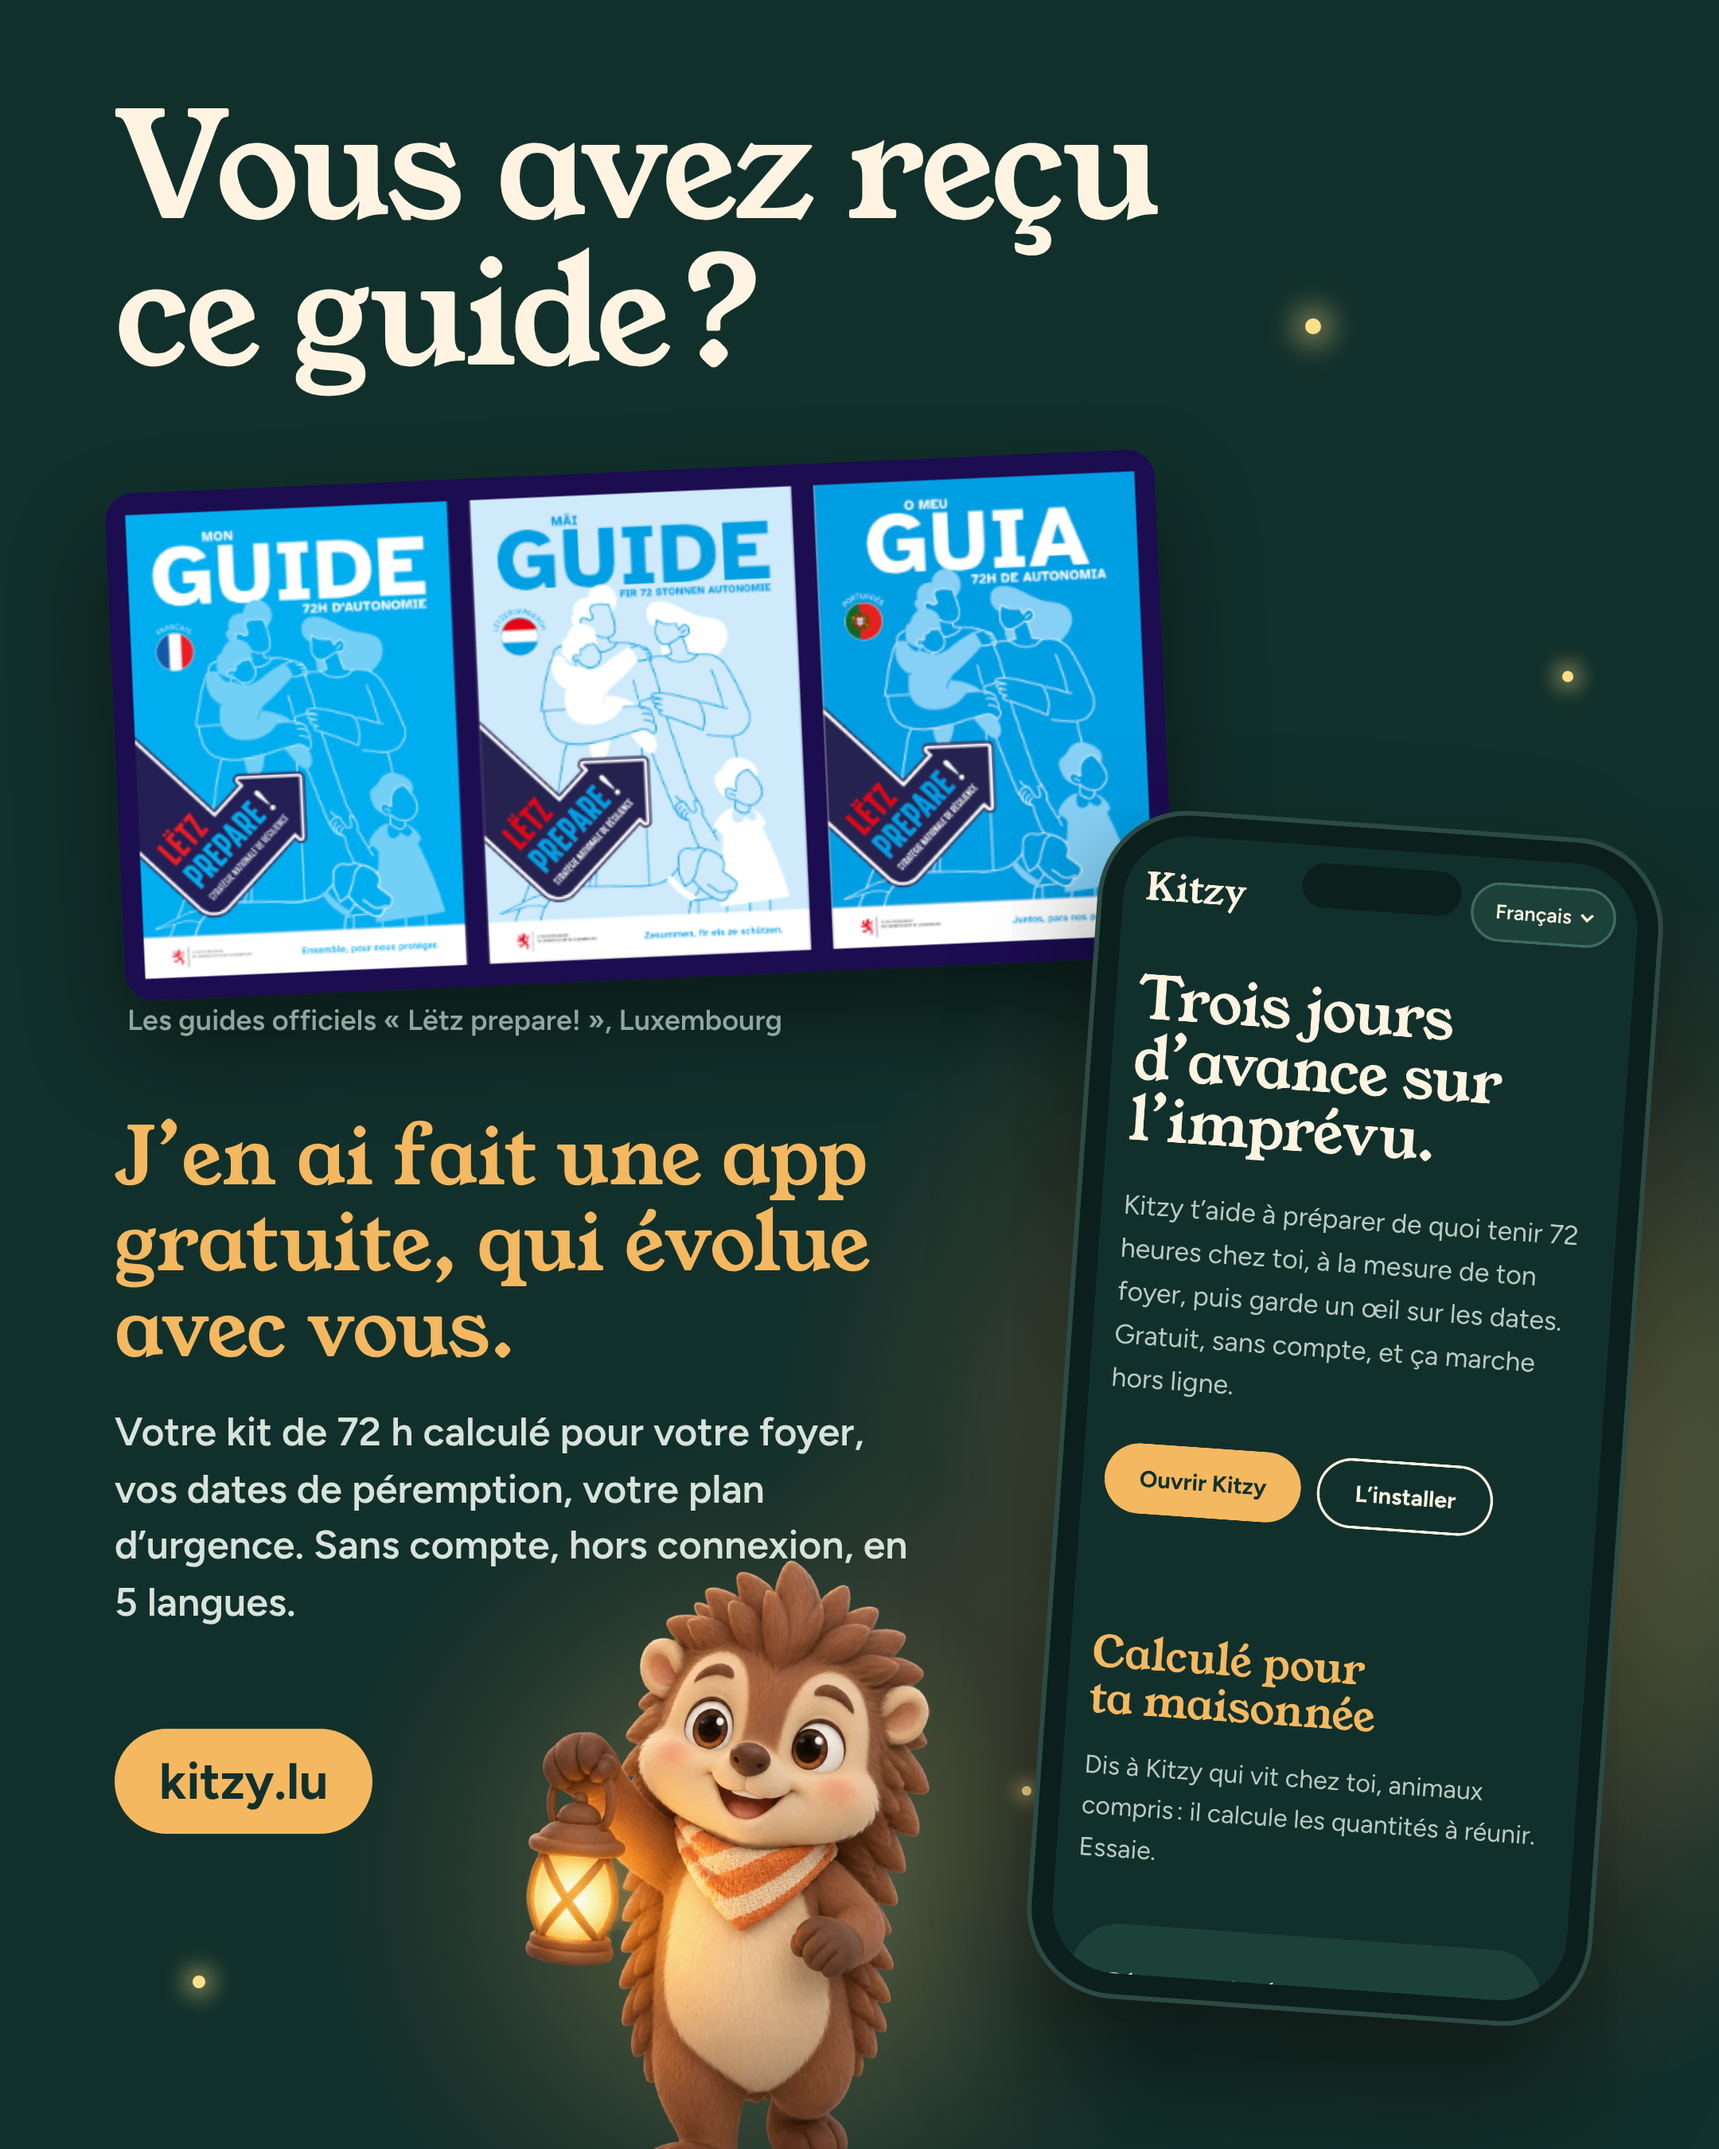
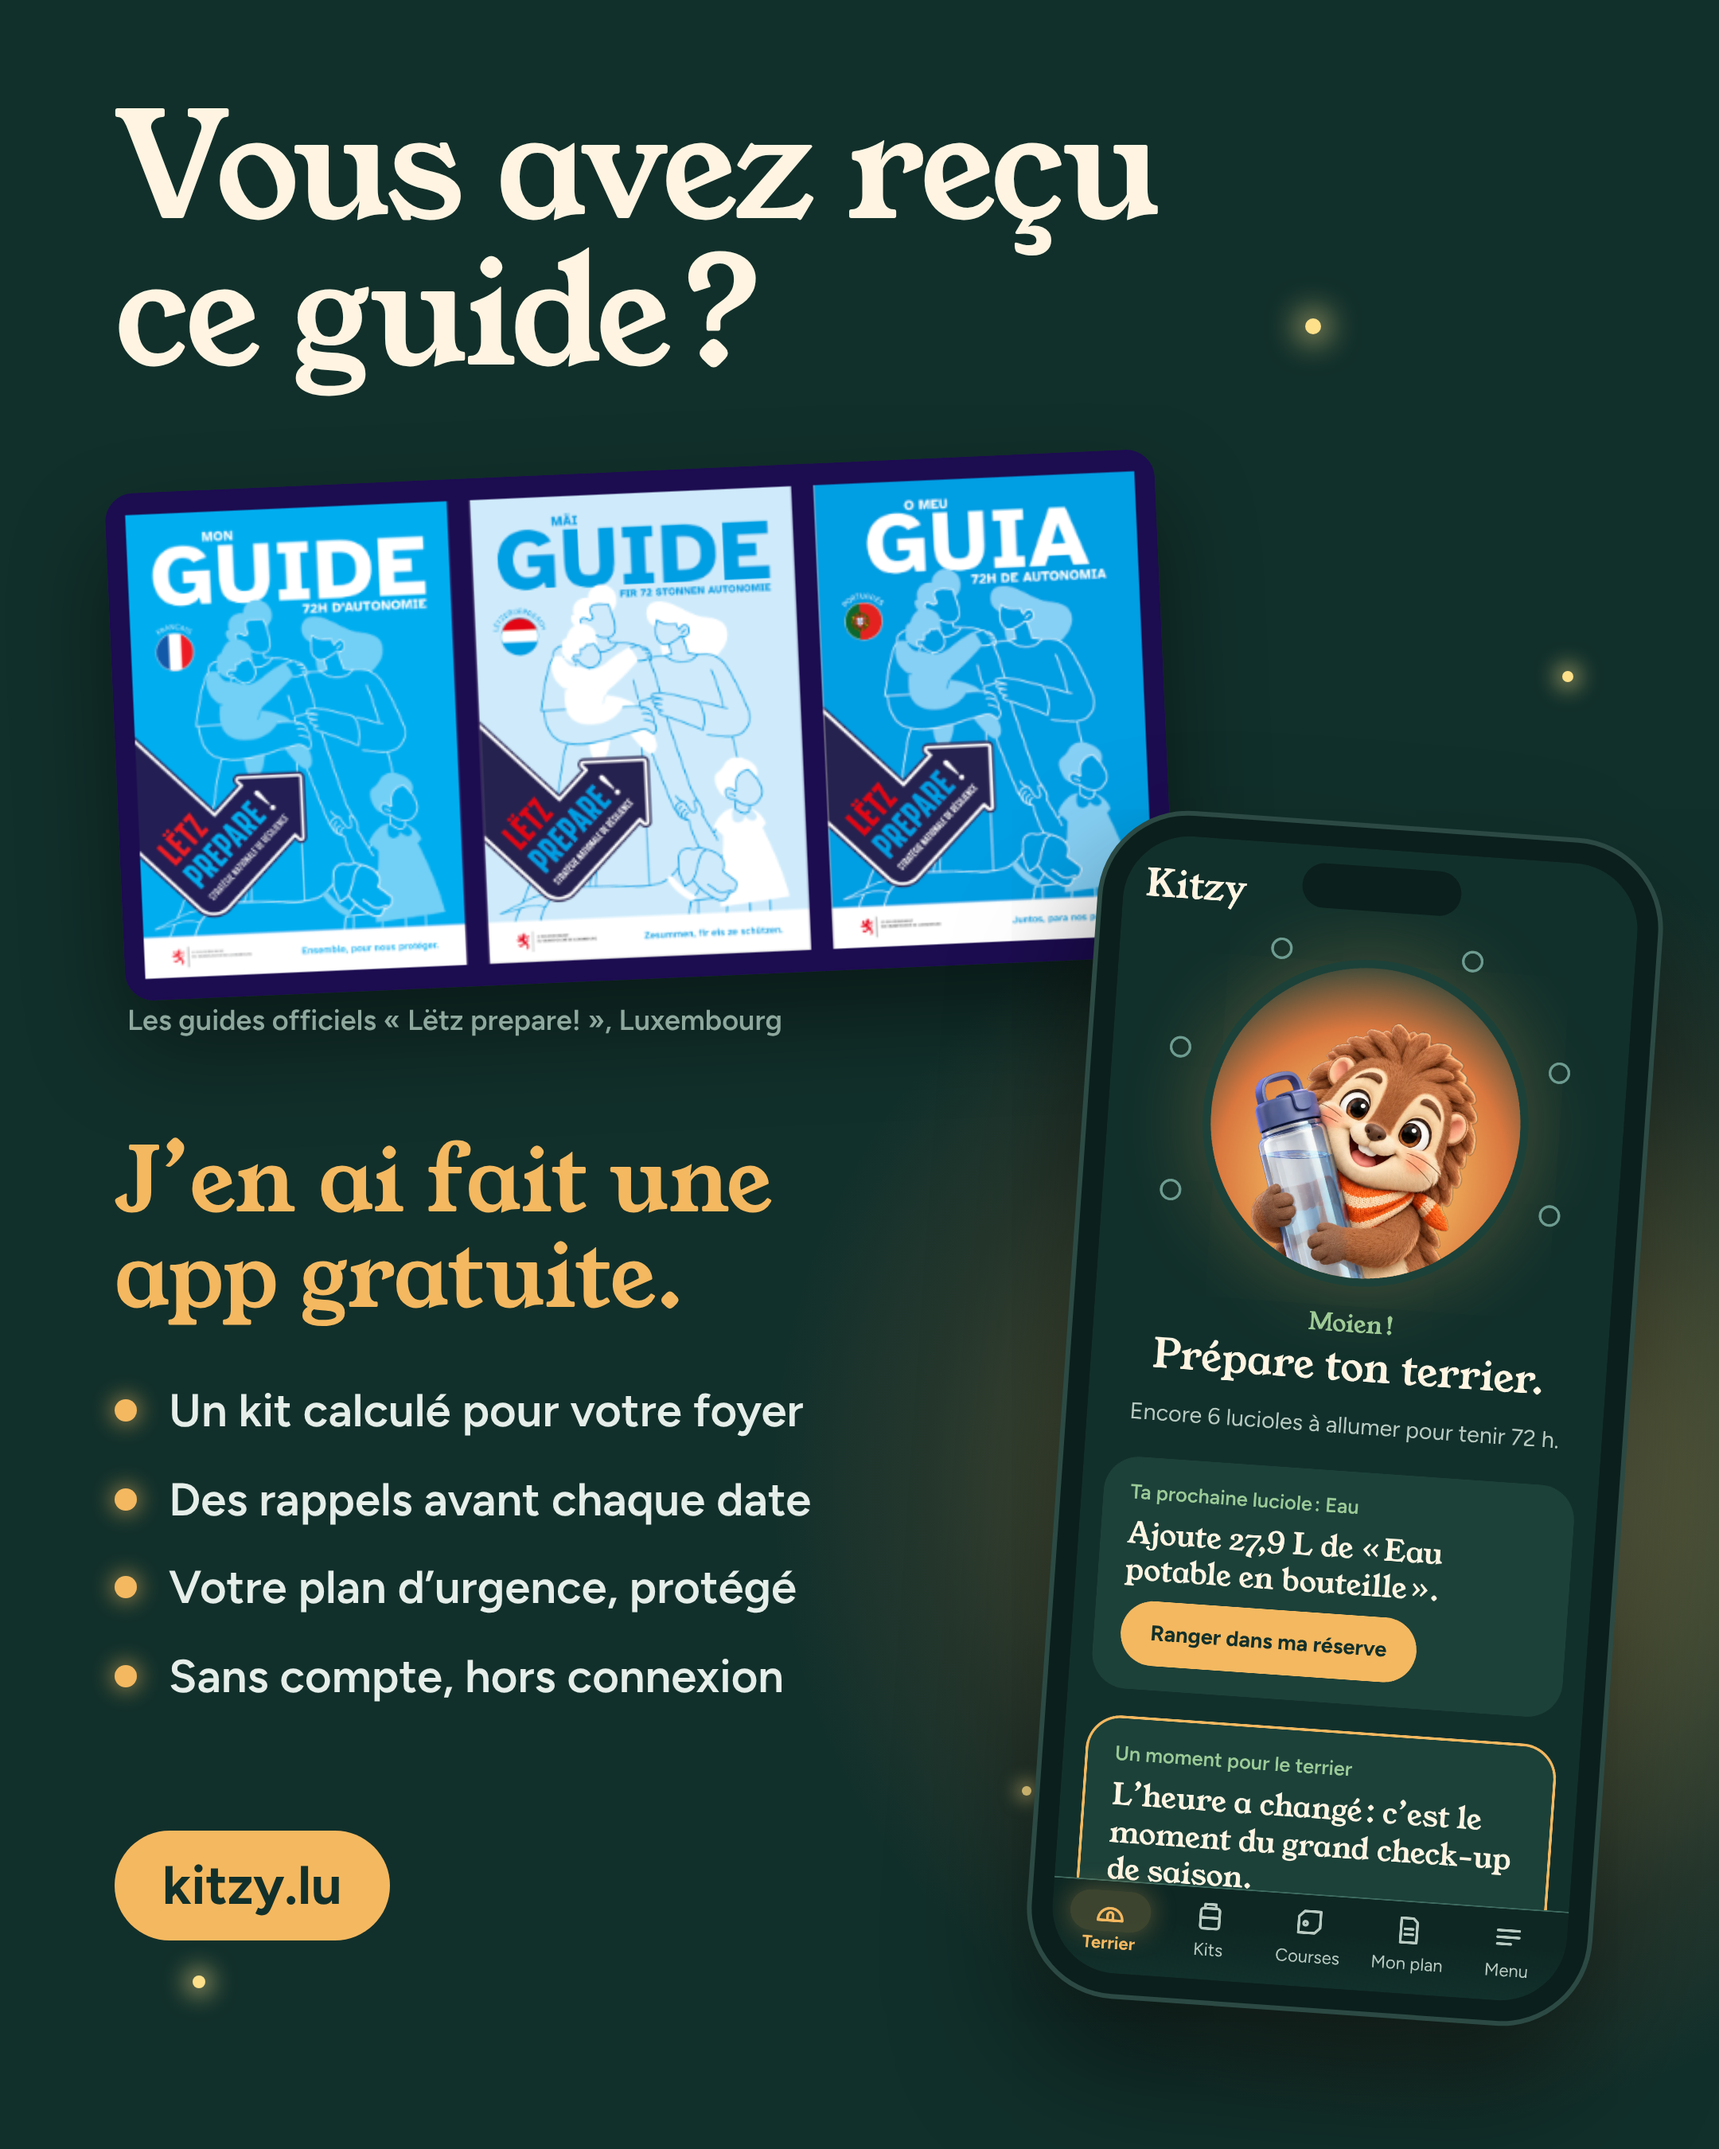
Visuel LinkedIn : élagué (accueil de l'app dans le téléphone, puces)
Sans le hérisson ; le téléphone montre l'accueil de l'app avec un foyer
d'exemple ; « J'en ai fait une app gratuite. » et quatre puces courtes à
la place du paragraphe.

Claude-Session: https://claude.ai/code/session_01ExKi3yHdVnK3LeuWoHaC2d

diff --git a/apps/web/scripts/linkedin-image.ts b/apps/web/scripts/linkedin-image.ts
@@ -1,6 +1,6 @@
 /**
- * Visuel LinkedIn du lancement (1080 × 1350) : les guides officiels « Lëtz prepare! », kitzy.lu dans
- * un téléphone et Kitzy à la lanterne. La capture du téléphone est faite sur le site construit.
+ * Visuel LinkedIn du lancement (1080 × 1350) : les guides officiels « Lëtz prepare! » et l'accueil
+ * de l'app dans un téléphone (capture faite sur le site construit, avec un foyer d'exemple).
  *   pnpm build && pnpm linkedin-image  (PLAYWRIGHT_CHROMIUM_PATH pour un Chromium déjà installé)
  * Sortie : assets/social/kitzy-linkedin-lancement.png
  */
@@ -38,10 +38,19 @@ try {
     locale: 'fr-LU',
   });
   const phone = await context.newPage();
-  await phone.goto(`http://localhost:${PORT}/`, { waitUntil: 'networkidle' });
-  // Le hérisson est déjà en grand sur le visuel : dans le téléphone, on montre la suite de la page.
-  await phone.addStyleTag({ content: '.hero .stage { display: none !important; }' });
+  // L'accueil de l'app, avec un foyer : 2 adultes, 1 enfant, 1 chat.
+  await phone.goto(`http://localhost:${PORT}/app/`, { waitUntil: 'networkidle' });
+  await phone.getByRole('link', { name: 'Présenter mon foyer' }).click();
+  await phone.getByRole('button', { name: 'Ajouter : Adultes' }).click();
+  await phone.getByRole('button', { name: 'Ajouter : Enfants' }).click();
+  await phone.getByRole('button', { name: 'Ajouter : Chats' }).click();
+  await phone.getByRole('button', { name: 'Enregistrer mon foyer' }).click();
+  await phone.getByRole('status').filter({ hasText: 'Foyer enregistré.' }).waitFor();
+  await phone.goto(`http://localhost:${PORT}/app/`, { waitUntil: 'networkidle' });
+  // Le bandeau « Succès débloqué » ne sert pas le propos : masqué pour la capture.
+  await phone.addStyleTag({ content: '.unlock-region { display: none !important; }' });
   await phone.evaluate(() => globalThis.document.fonts.ready);
+  await phone.waitForTimeout(800);
   await phone.screenshot({ path: phoneShot });
   await context.close();
 
@@ -63,21 +72,22 @@ h1 { position: absolute; left: 72px; top: 60px; width: 940px; font-family: 'Youn
 .guides { position: absolute; left: 72px; top: 296px; width: 660px; transform: rotate(-2.5deg);
   border-radius: 18px; box-shadow: 0 30px 60px rgba(0,0,0,.45); }
 .credit { position: absolute; left: 80px; top: 630px; font-size: 18px; font-weight: 600; color: #8FA89E; }
-.pitch { position: absolute; left: 72px; top: 700px; width: 500px; }
-.pitch h2 { font-family: 'Young Serif'; font-weight: 400; font-size: 50px; line-height: 1.08; color: #F4B860; }
-.pitch p { margin-top: 20px; font-size: 25px; line-height: 1.42; font-weight: 600; color: #D8E3DC; }
-.cta { position: absolute; left: 72px; top: 1086px; padding: 14px 28px; border-radius: 999px;
-  background: #F4B860; color: #12302B; font-size: 32px; font-weight: 700; }
+.pitch { position: absolute; left: 72px; top: 712px; width: 520px; }
+.pitch h2 { font-family: 'Young Serif'; font-weight: 400; font-size: 56px; line-height: 1.08; color: #F4B860; }
+.pitch ul { margin: 34px 0 0; padding: 0; list-style: none; display: flex; flex-direction: column; gap: 18px; }
+.pitch li { position: relative; padding-left: 34px; font-size: 29px; line-height: 1.3; font-weight: 600; color: #E6EEE9; }
+.pitch li::before { content: ''; position: absolute; left: 0; top: 0.42em; width: 14px; height: 14px; border-radius: 50%;
+  background: #F4B860; box-shadow: 0 0 12px 3px rgba(244,184,96,.45); }
+.cta { position: absolute; left: 72px; top: 1150px; padding: 14px 30px; border-radius: 999px;
+  background: #F4B860; color: #12302B; font-size: 34px; font-weight: 700; }
 .phone { position: absolute; right: 60px; top: 520px; width: 350px; height: 742px; padding: 13px;
   border-radius: 54px; background: #0B1F1C; transform: rotate(4deg);
   box-shadow: 0 0 0 3px #2C4A43, 0 40px 80px rgba(0,0,0,.55); }
 .phone img { width: 100%; height: 100%; object-fit: cover; object-position: top; border-radius: 42px; display: block; }
 .notch { position: absolute; left: 50%; top: 24px; width: 100px; height: 28px; margin-left: -50px;
   border-radius: 999px; background: #0B1F1C; }
-.hog { position: absolute; left: 330px; bottom: -30px; height: 400px; }
 </style></head><body>
 <div class="glow" style="left:480px;top:520px;width:820px;height:820px"></div>
-<div class="glow" style="left:200px;top:900px;width:560px;height:560px;opacity:.7"></div>
 <span class="fly" style="left:820px;top:200px"></span>
 <span class="fly" style="left:980px;top:420px;transform:scale(.7)"></span>
 <span class="fly" style="left:640px;top:1120px;transform:scale(.6)"></span>
@@ -86,11 +96,15 @@ h1 { position: absolute; left: 72px; top: 60px; width: 940px; font-family: 'Youn
 <img class="guides" src="${pathToFileURL(resolve(root, 'assets/social/guides-letz-prepare.png')).href}" alt="">
 <p class="credit">Les guides officiels « Lëtz prepare! », Luxembourg</p>
 <div class="pitch">
-  <h2>J’en ai fait une app gratuite, qui évolue avec vous.</h2>
-  <p>Votre kit de 72 h calculé pour votre foyer, vos dates de péremption, votre plan d’urgence. Sans compte, hors connexion, en 5 langues.</p>
+  <h2>J’en ai fait une app gratuite.</h2>
+  <ul>
+    <li>Un kit calculé pour votre foyer</li>
+    <li>Des rappels avant chaque date</li>
+    <li>Votre plan d’urgence, protégé</li>
+    <li>Sans compte, hors connexion</li>
+  </ul>
 </div>
 <div class="cta">kitzy.lu</div>
-<img class="hog" src="${file('public/mascot/kitzy-lanterne.webp')}" alt="">
 <div class="phone"><img src="${pathToFileURL(phoneShot).href}" alt=""><span class="notch"></span></div>
 </body></html>`;
   const htmlFile = join(dir, 'post.html');
